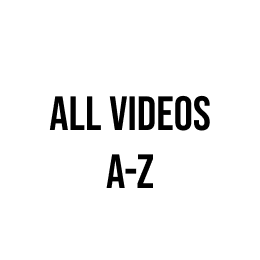
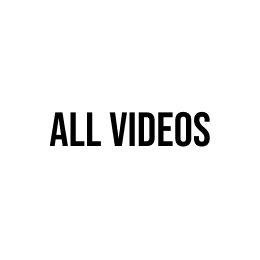
text-stroke

Changed region(s): [[0.1846, 0.3692, 0.8308, 0.7385]]

diff --git a/style.css b/style.css
@@ -67,10 +67,10 @@ body {
     height: 100%;
 }
 
-.cta-circles-home img:hover {
+/* .cta-circles-home img:hover {
     outline: 5px dotted #ff9900;
     border-radius: 50%;
-}
+} */
 
 .about, .contact {
     color: white;
@@ -79,9 +79,12 @@ body {
 
 .about h1 {
     font-size: 50px;
-    background-color: black;
-    margin-left: 45%;
-    margin-right: 45%;
+    /* background-color: black; */
+    /* margin-left: 45%; */
+    /* margin-right: 45%; */
+    /* outline: 3px solid yellow; */
+    -webkit-text-stroke-width: 1px;
+    -webkit-text-stroke-color: black;
 }
 
 .contact h1 {
@@ -196,10 +199,10 @@ body {
     height: 100%;
 }
 
-.cta-circles-categories img:hover {
+/* .cta-circles-categories img:hover {
     outline: 5px dotted #ff9900;
     border-radius: 50%;
-}
+} */
 
 .cta-circles-categories {
     display: grid;

diff --git a/all-videos.html b/all-videos.html
@@ -51,7 +51,7 @@
     <main>
         <div class="loader"></div>
         <div class="all-videos">
-            <h1>All videos A-Z</h1>
+            <h1>All videos</h1>
             <div class="all-videos-images"></div>
         </div>
     </main>
